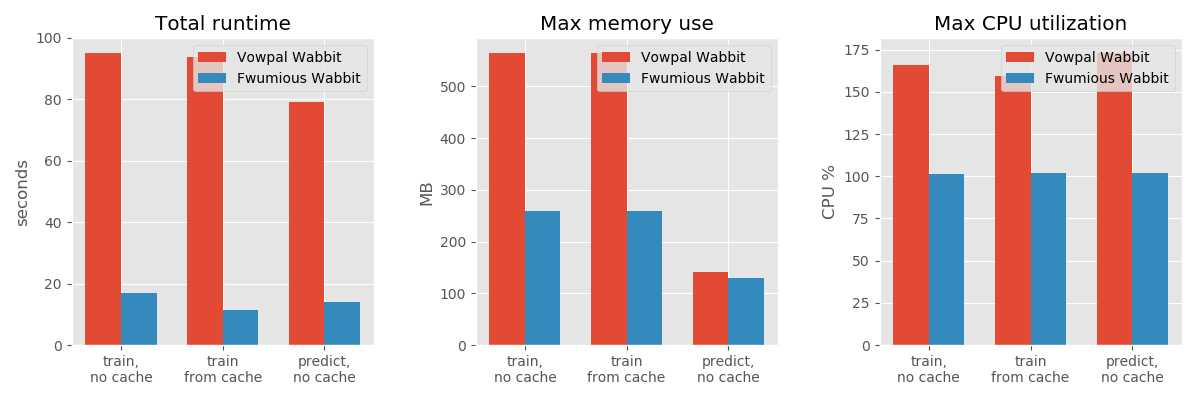
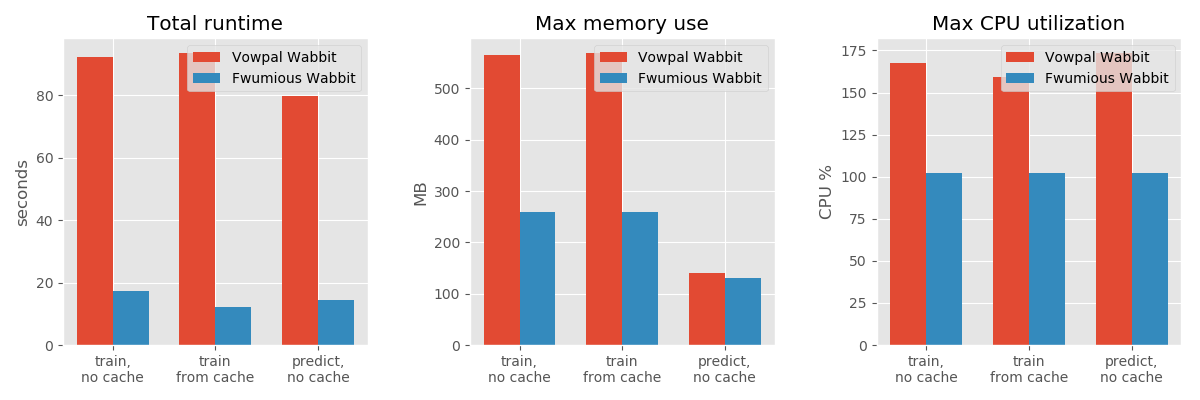
bumping version & benchmark info

diff --git a/src/version.rs b/src/version.rs
@@ -1,1 +1,1 @@
-pub static LATEST: &str = "0.5";
+pub static LATEST: &str = "0.6";

diff --git a/BENCHMARK.md b/BENCHMARK.md
@@ -14,12 +14,12 @@ here are the results for 3 runs for each scenario, taking mean values:
 ![benchmark results](benchmark_results.png)
 Scenario|Runtime (seconds)|Memory (MB)|CPU %
 ----|----:|----:|----:
-vw train, no cache|95.12 | 564 | 166.00
-fw train, no cache|17.11 | 258 | 101.53
-vw train, using cache|93.80 | 565 | 159.13
-fw train, using cache|11.55 | 258 | 102.10
-vw predict, no cache|79.17 | 141 | 173.03
-fw predict, no cache|14.11 | 130 | 101.63
+vw train, no cache|92.10 | 564 | 167.67
+fw train, no cache|17.43 | 258 | 102.10
+vw train, using cache|93.56 | 569 | 159.43
+fw train, using cache|12.05 | 258 | 102.40
+vw predict, no cache|79.74 | 141 | 173.50
+fw predict, no cache|14.59 | 130 | 102.27
 
 ### Model equivalence
 loss values for the test set:
@@ -82,7 +82,7 @@ or, if you just want the numbers with less dependencies run:
 ### versions:
 ```
 vowpal wabbit 8.9.2 (git commit: 884420267)
-fwumious wabbit 0.5 (git commit: a17cbeb)
+fwumious wabbit 0.6 (git commit: 611f95c)
 ```
 
 ### CPU Info
